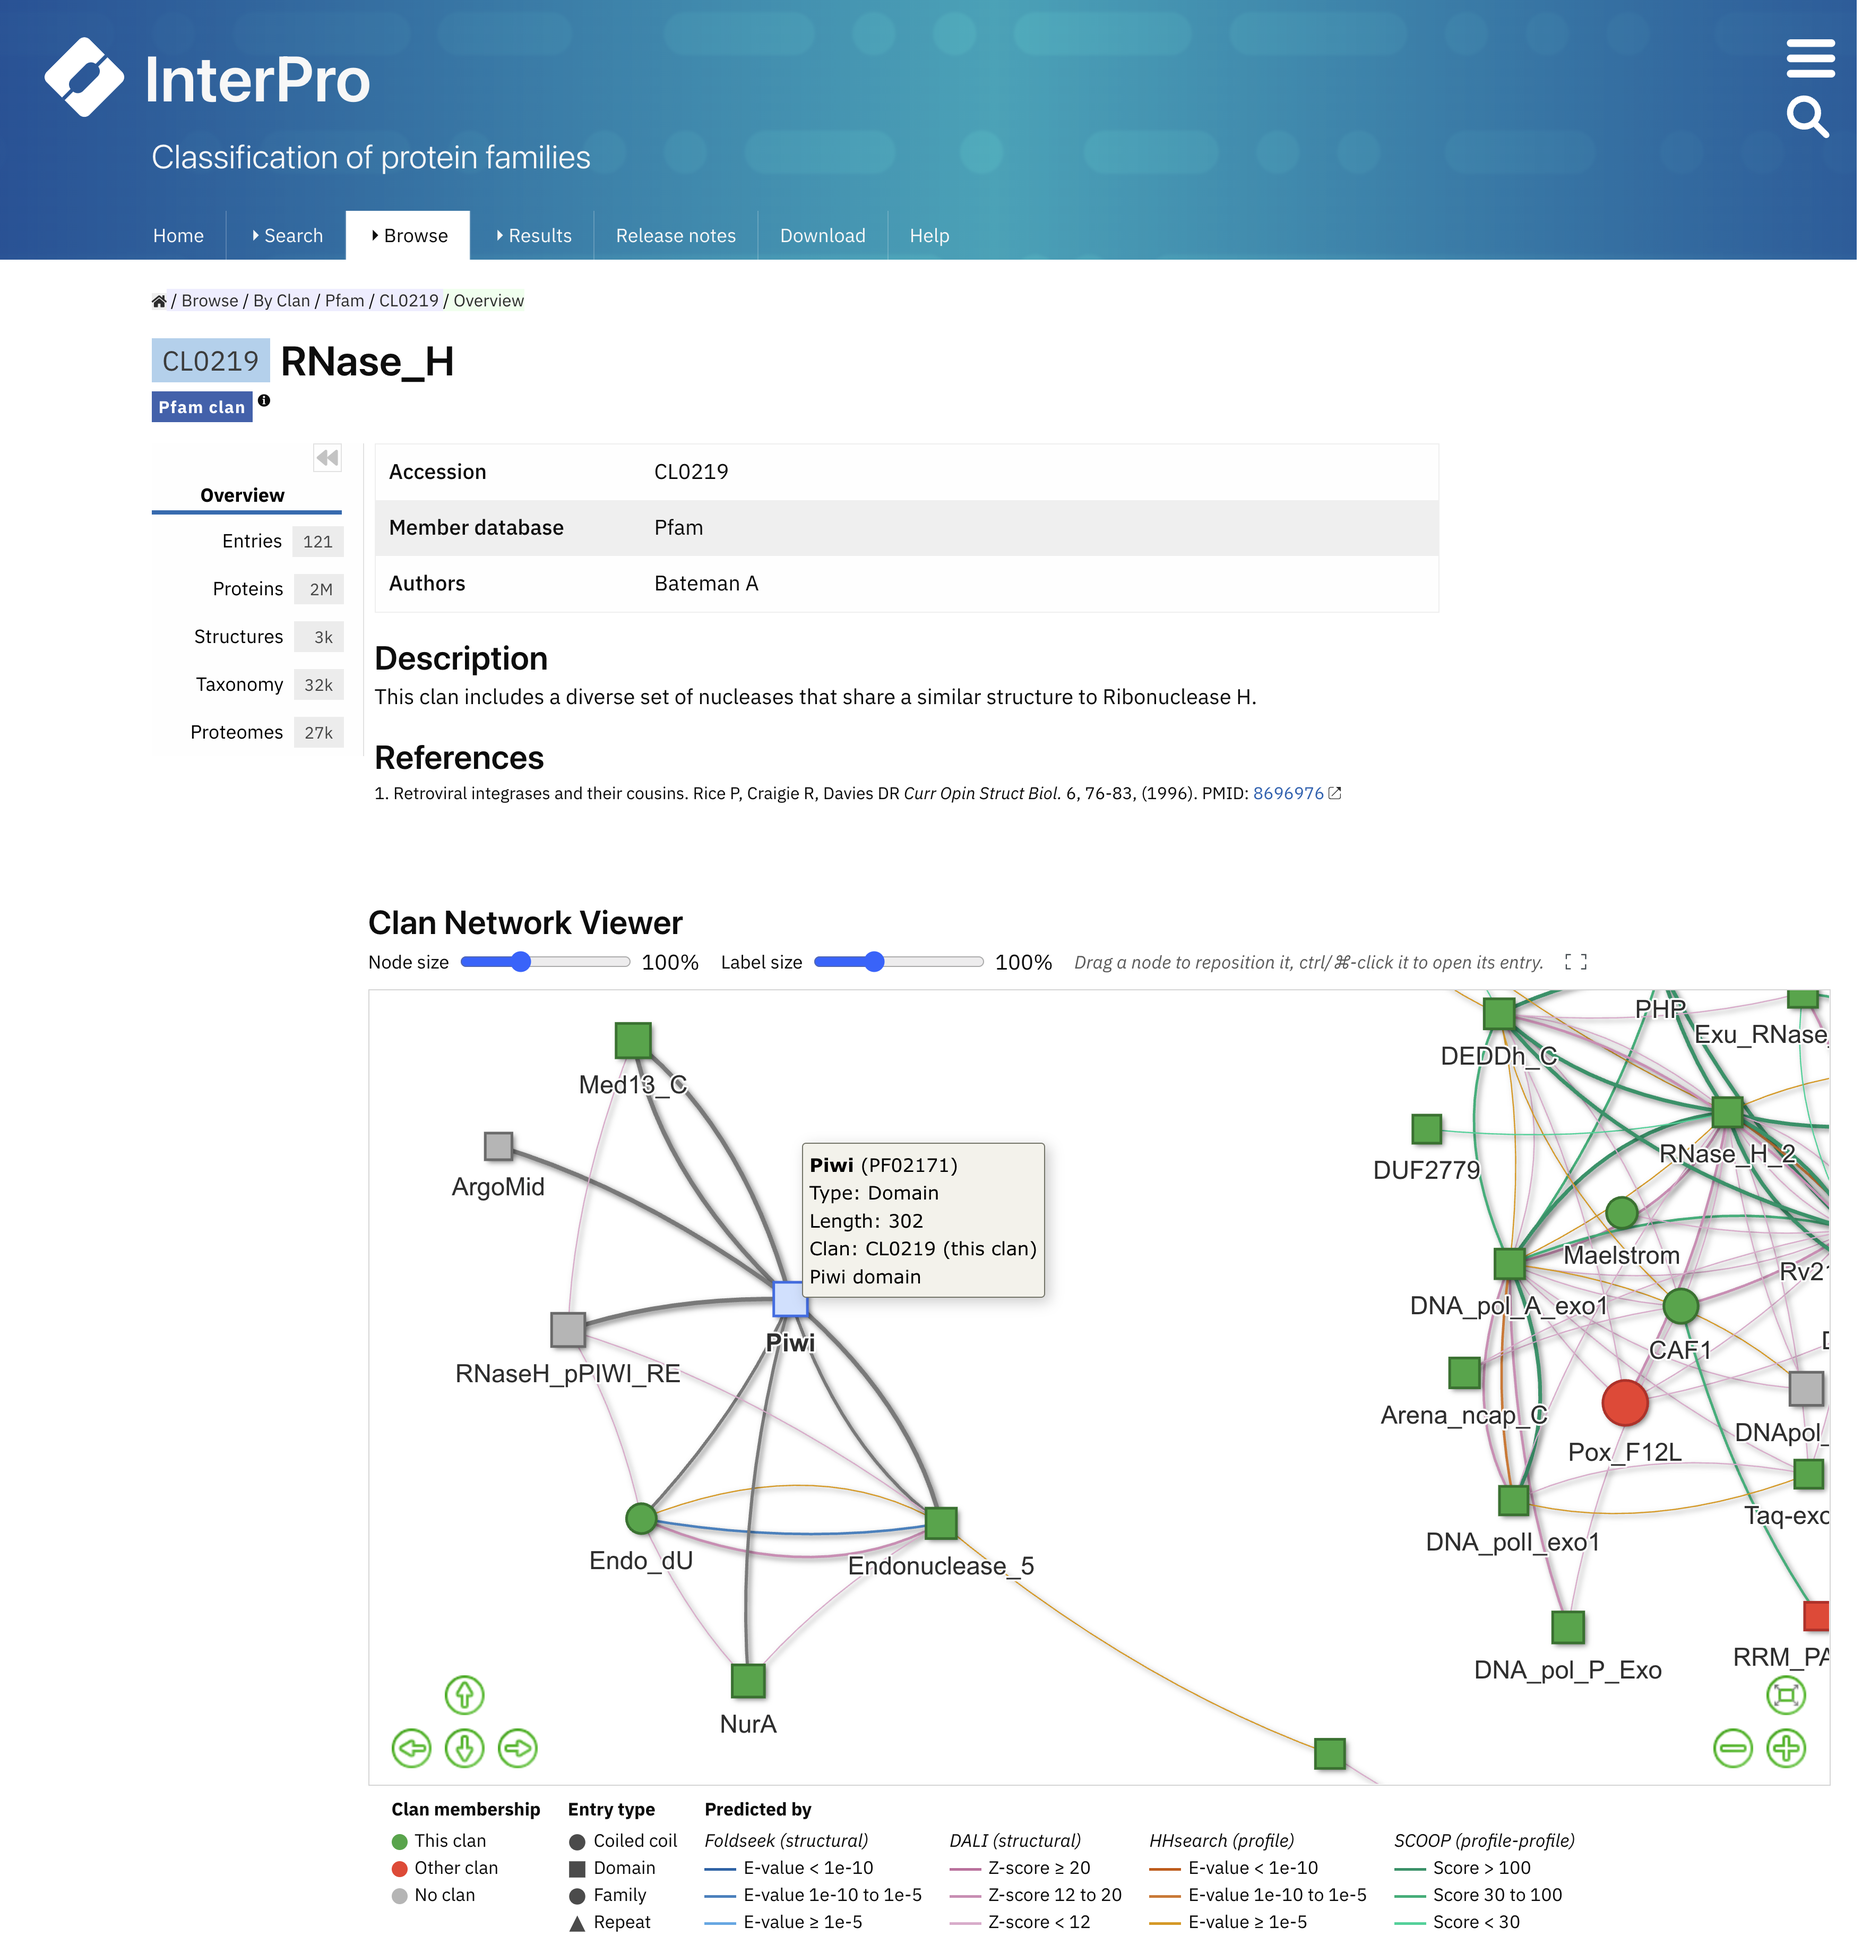
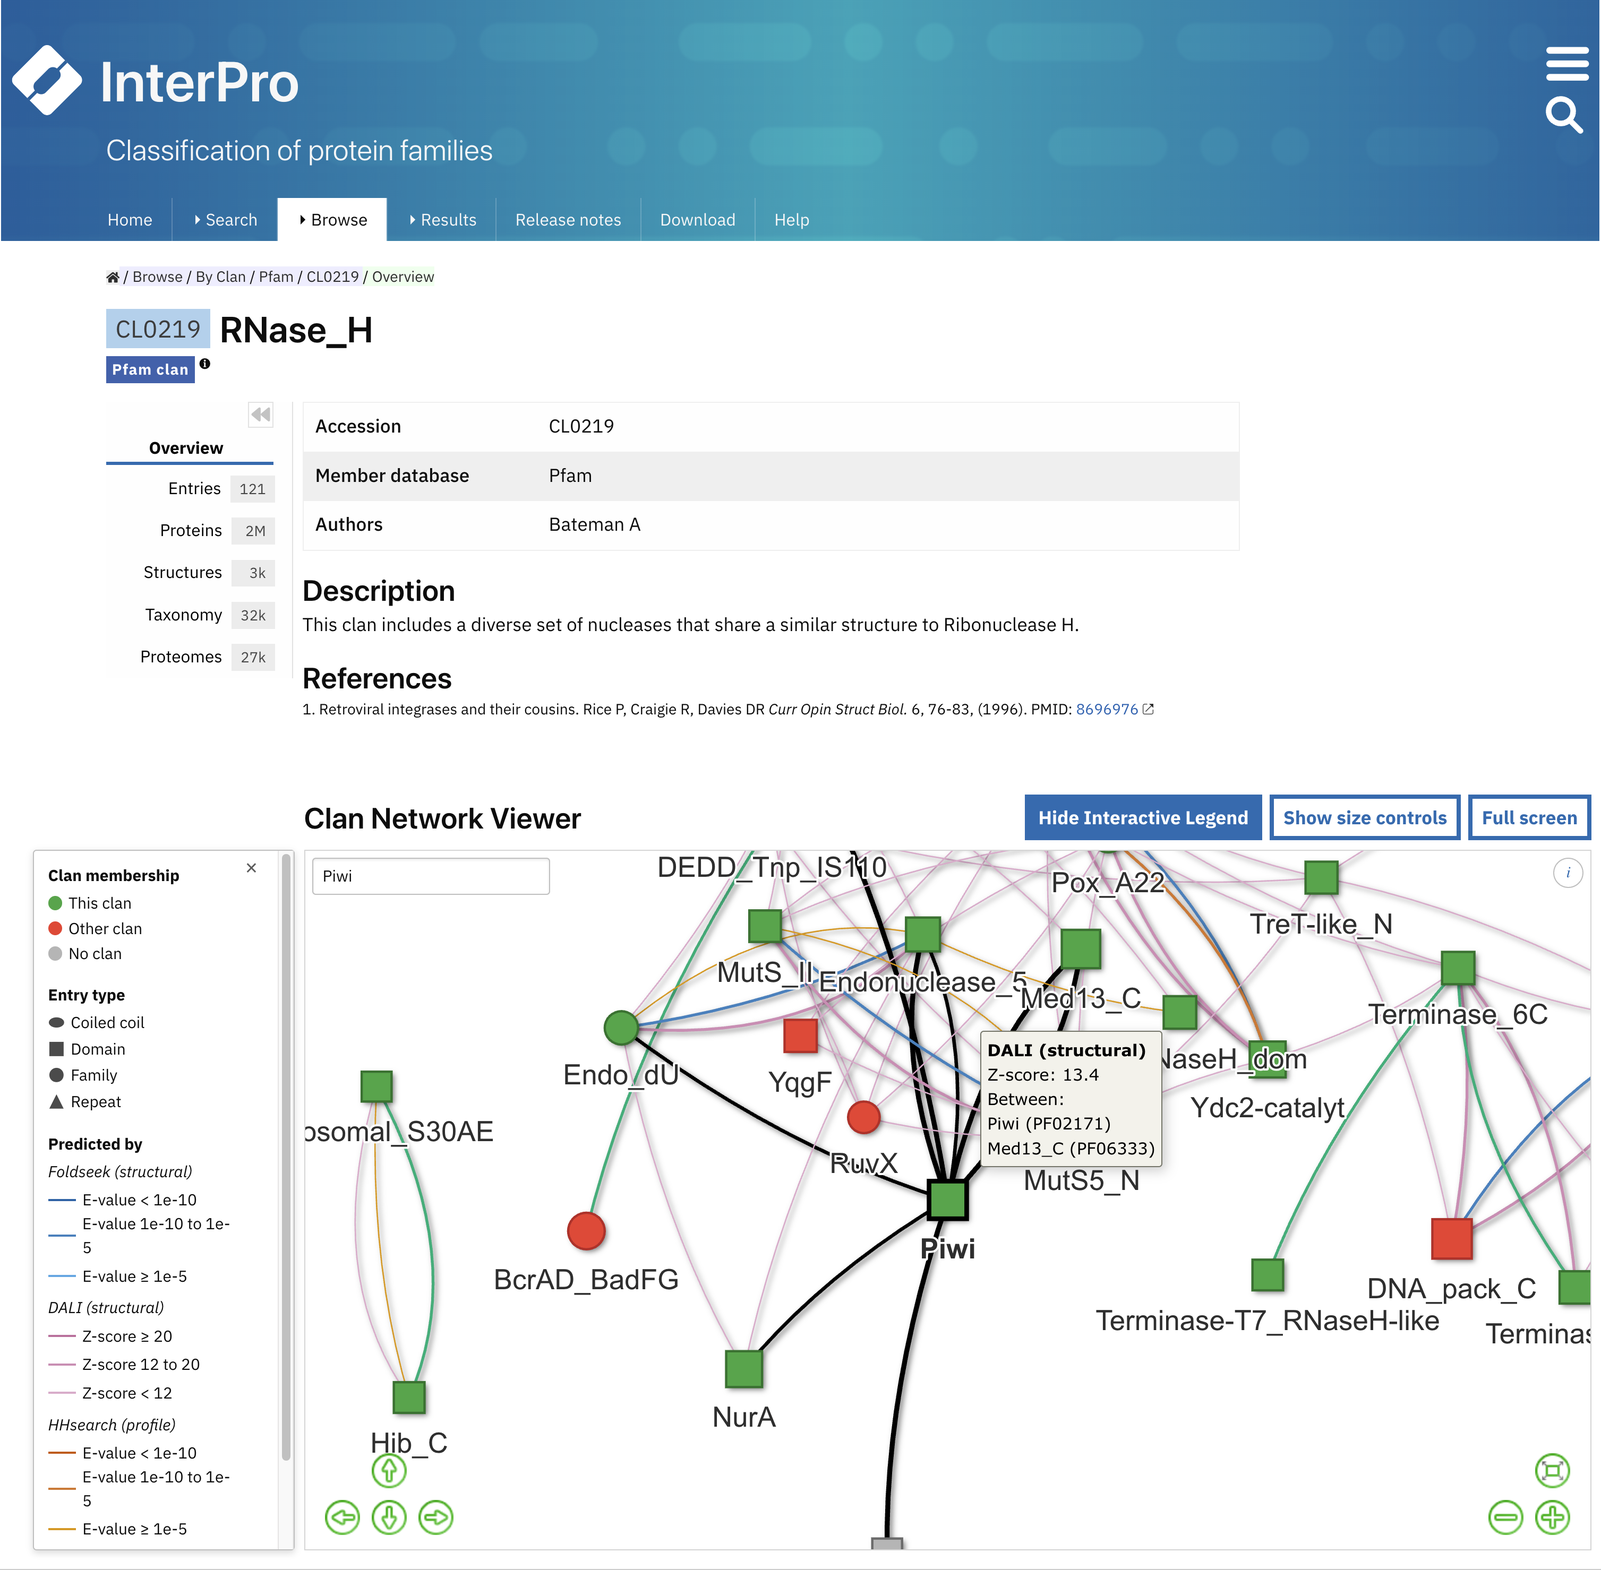
Further updates

diff --git a/docs/clan.rst b/docs/clan.rst
@@ -18,7 +18,9 @@ in the InterPro website menu and select **Pfam** in the database section.
 
     Example of a Pfam clan page (CL0219_). All the tabs described below can be
     found on the left-hand side menu. The **Overview** tab is displayed by default.
-    The mouse is hovered over the Piwi domain entry, whose details are shown in a tooltip.
+    The mouse is hovered over a structural relationship between the `Piwi domain <https://www.ebi.ac.uk/interpro/entry/pfam/PF02171/>`_
+    and the `Mediator complex subunit 13 C-terminal domain <https://www.ebi.ac.uk/interpro/entry/pfam/PF06333/>`_ 
+    entries, whose details are shown in a tooltip.
 
 In each Pfam clan page, different tabs with relevant information are available, the information they contain is described below.
 
@@ -31,9 +33,11 @@ description of the clan is displayed below, with the relevant literature referen
 When a Wikipedia article is available for the clan, the first paragraph of the article together with the link to the Wikipedia article are 
 shown in the **Wikipedia** section.
 
-An interactive view including Pfam entries that belong to the clan is also displayed. The arrows/the mouse can be used to scroll in/out. 
-Hovering the mouse over a Pfam entry (circle, square or triangle) or structural relationship (line) shows details about it. Details about 
-the meaning of colours and shapes as well as the tools used for structural comparison are shown in the legend below.
+An interactive view including Pfam entries that belong to the clan can also be displayed. This viewer is built using different comparison methods 
+to predict the relationships: Foldseek and DALI as structural methods, while HHsearch and SCOOP are profile comparison methods. The threshold used 
+for each method is shown in the legend below, together with the colour scheme for the lines linking different families. The arrows/the mouse can be 
+used to zoom in/out. Hovering the mouse over the Pfam entry (different shape and colour according to entry type and clan membership, respectively, 
+as explained in the legend ) and the lines, show details about them.
 
 Entries
 =======
